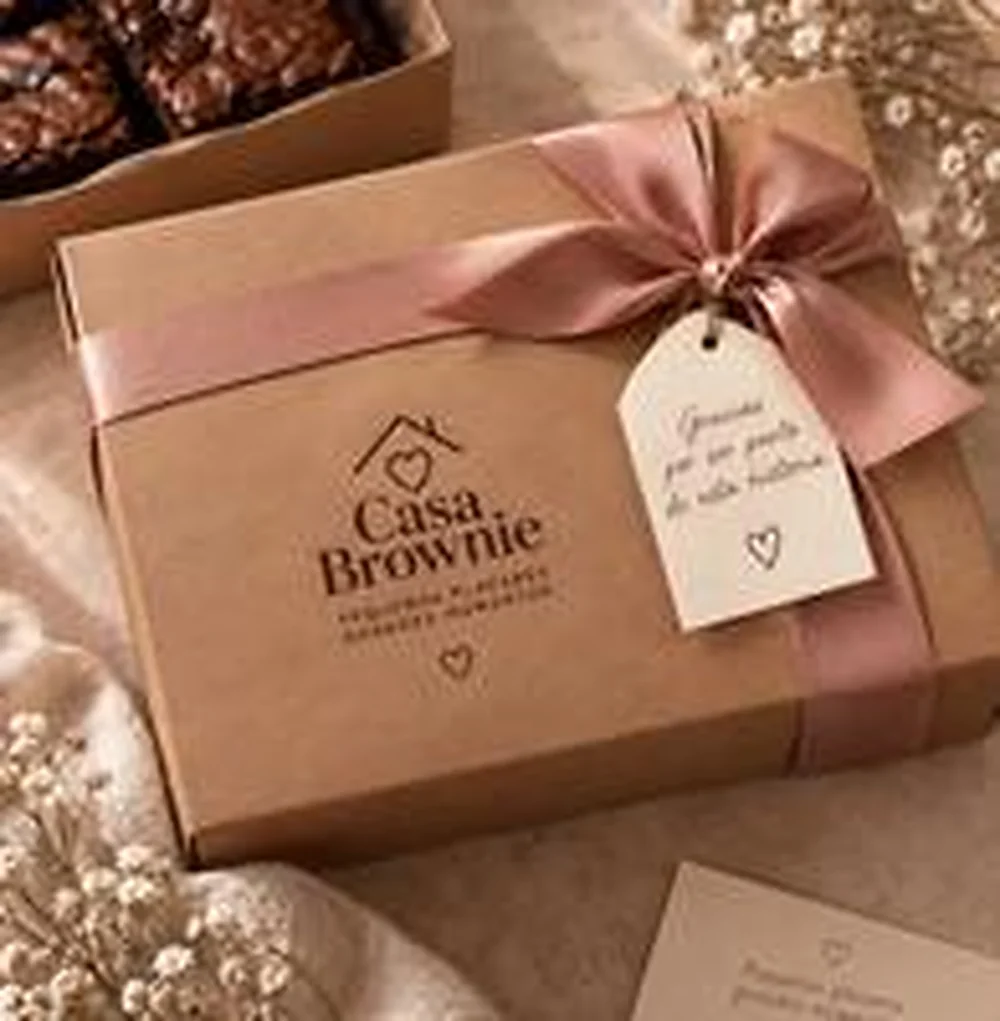
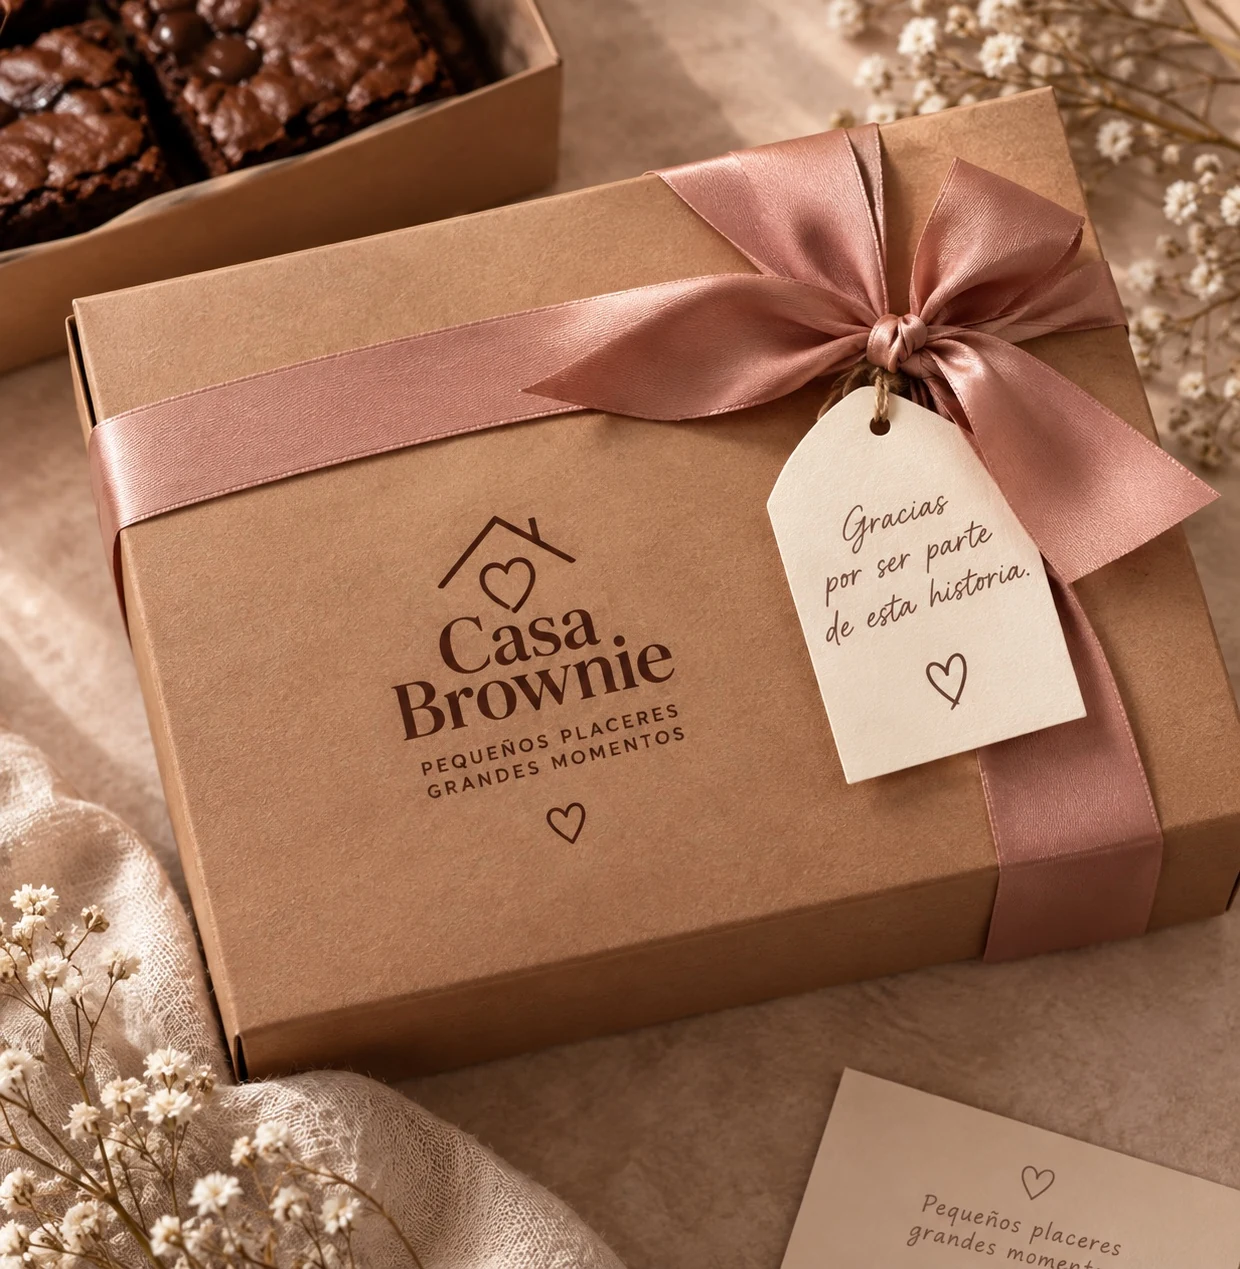
Casa Brownie: fotos de empaque en resolución original y caché renovada
* Restaurar fotos originales del empaque sin bajar resolución

* Casa Brownie: sustituir fotos borrosas por originales nítidos

* Forzar carga de las fotos originales en navegadores móviles

* Documentar corrección de fotos nítidas en resolución original

* Retirar proceso temporal tras guardar originales en el repositorio

---------

diff --git a/public/demos/casa-brownie/index.html b/public/demos/casa-brownie/index.html
@@ -313,7 +313,7 @@
         </section>
         <section class="moments-strip" id="momentos" aria-labelledby="moments-title">
           <figure class="moment-image moment-illustration cb-real-gift-photo">
-            <img src="./assets/regalo-lazo-rosa.webp" alt="Caja kraft de Casa Brownie con lazo de satén rosa y etiqueta de agradecimiento" loading="lazy" decoding="async" width="1000" height="1023" />
+            <img src="./assets/regalo-lazo-rosa.webp?v=20261029-original" alt="Caja kraft de Casa Brownie con lazo de satén rosa y etiqueta de agradecimiento" loading="lazy" decoding="async" width="1000" height="1023" />
           </figure>
           <div class="moments-copy">
             <span class="eyebrow">UN DETALLE QUE DICE MUCHO</span>
@@ -322,7 +322,7 @@
             <button type="button" class="text-link" id="see-story">Conoce la idea</button>
           </div>
           <figure class="moment-image moment-note cb-real-gift-photo">
-            <img src="./assets/regalos-bolsa-y-cajas.webp" alt="Bolsa de Casa Brownie, cajas de regalo con lazo y brownies de chocolate sobre una mesa cálida" loading="lazy" decoding="async" width="1000" height="750" />
+            <img src="./assets/regalos-bolsa-y-cajas.webp?v=20261029-original" alt="Bolsa de Casa Brownie, cajas de regalo con lazo y brownies de chocolate sobre una mesa cálida" loading="lazy" decoding="async" width="1000" height="750" />
           </figure>
         </section>
         <section class="delivery-section" id="entrega">

diff --git a/public/demos/casa-brownie/README.md b/public/demos/casa-brownie/README.md
@@ -29,4 +29,4 @@ El enlace original de edición de AppDeploy sigue siendo una versión anterior; 
 ## Fotografías nuevas de regalo · 29 oct 2026
 - En «Una forma bonita de decir pensé en ti» se sustituyeron ambas ilustraciones CSS por fotografías aportadas por la creadora: caja de regalo con lazo rosa (`assets/regalo-lazo-rosa.webp`) y bolsa/cajas con brownies (`assets/regalos-bolsa-y-cajas.webp`).
 - No se crearon secciones nuevas, pedidos ni capturas de datos; las fotos tienen descripciones alternativas y encuadres adaptables en `gift-photos.css`.
-- **Pendiente antes de producción comercial:** estos recursos fueron incorporados desde miniaturas de transferencia y escalados; sustituirlos por exportaciones de los archivos originales de alta resolución para máxima nitidez en pantallas grandes, conservando los mismos nombres y rutas.
+- **Corrección de nitidez (29 oct 2026):** reemplazadas las miniaturas escaladas por copias optimizadas de los originales adjuntos: bolsa y cajas de **1448 × 1086 px** y caja con lazo de **1240 × 1269 px**. Se conserva el tamaño original con compresión WebP de calidad alta y se renuevan las URL de ambas imágenes para evitar caché antiguo en móvil.
